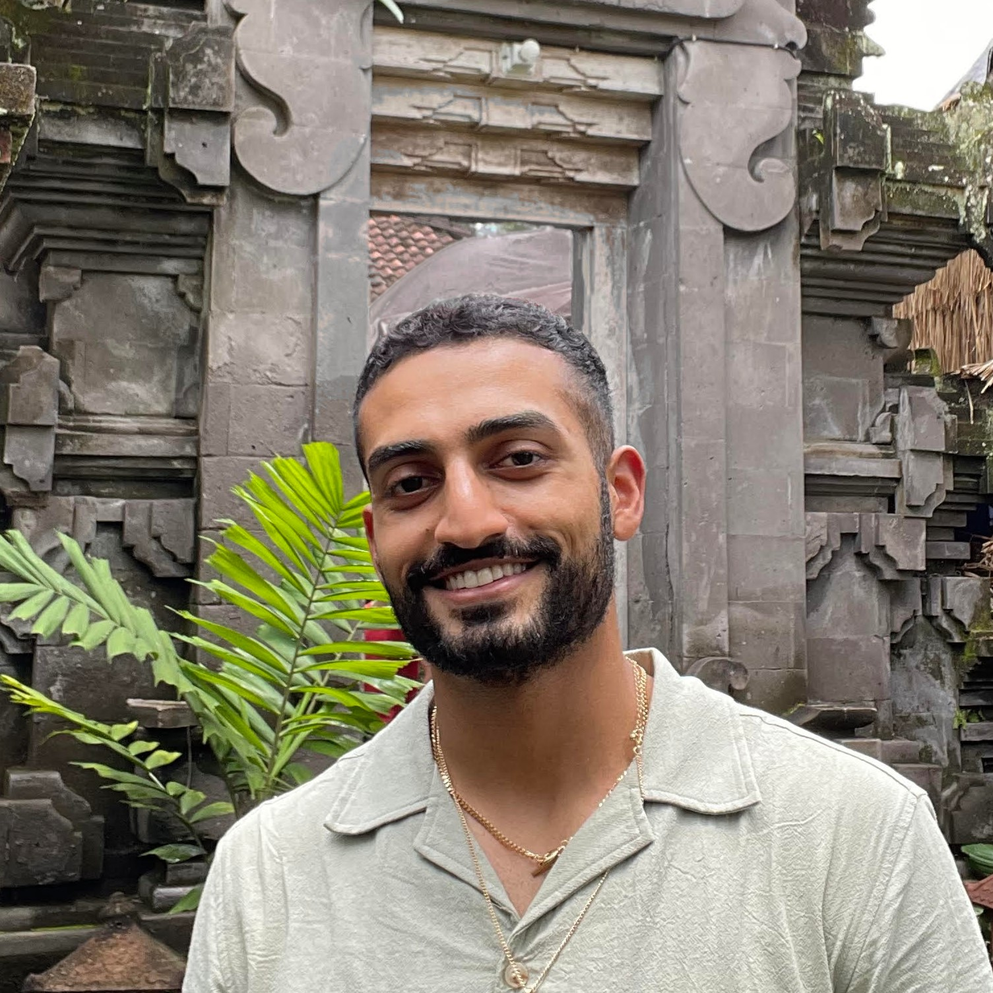
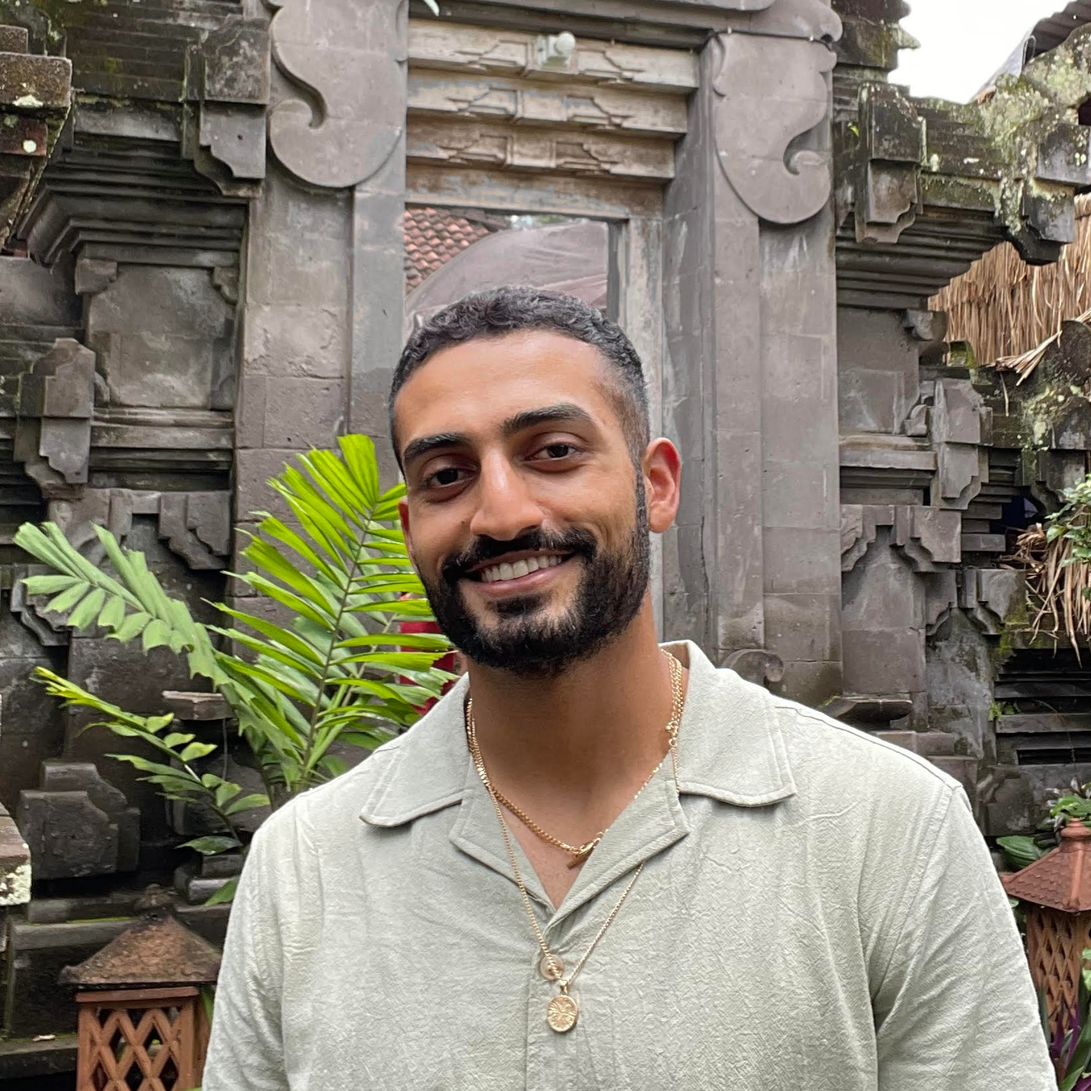
new landing page

diff --git a/app/page.tsx b/app/page.tsx
@@ -2,7 +2,6 @@
 
 import Image from "next/image";
 import { useEffect, useState } from "react";
-import Skills from "./components/Skills";
 import Link from "next/link";
 
 export default function HomePage() {
@@ -14,34 +13,31 @@ export default function HomePage() {
   }, []);
 
   return (
-    <main className="flex flex-col w-full items-center px-8">
-      <section className="flex flex-col md:flex-row justify-center md:gap-12 my-24 max-w-full w-full md:w-[48rem]">
-        <div className={`flex justify-center rounded-full overflow-hidden object-cover mx-auto min-h-[250px] min-w-[250px] border-4 border-green-300
+    <main className="flex flex-col w-full items-center justify-center px-4">
+      <section className="flex flex-col md:flex-row justify-center items-start md:gap-12 my-24 max-w-full w-full md:max-w-5xl">
+        <div className={`flex rounded-full overflow-hidden object-cover mx-auto min-h-[300px] min-w-[300px] border-4 border-green-300 overflow-hidden relative
           ${isVisible ? 'opacity-100' : 'opacity-0'} transition-opacity duration-500`}>
-          <Image
-            src="/me.JPG"
-            alt="Me"
-            width={300}
-            height={300}
+          <Image src="/me.JPG" alt="Syed Ali Asar" className="flex-shrink-0 absolute object-cover" 
+            width={500} height={500}
           />
+          {/* <div className="absolute inset-0 bg-green-300/75 opacity-0 hover:opacity-100 text-4xl font-bold text-center items-center justify-center flex transition-opacity duration-300">Syed Ali Asar</div> */}
         </div>
-        <div className={`flex flex-col mt-8 md:mt-0 justify-center text-center md:text-left
-          ${isVisible ? 'opacity-100' : 'opacity-0 -translate-x-20'} transition-opacity transition-transform duration-1000`}>
-          <div className="flex text-4xl md:text-6xl font-bold justify-center md:justify-start">{name}</div>
-          <div className="flex pt-6 italic justify-center md:justify-start ">
-            Here to streamline, scale, and succeed with thoughtful and high-quality software solutions.
-          </div>
-          <div className="flex pt-6 font-medium justify-center md:justify-start items-center">
-            <Link href={'/portfolio'} className="border-2 rounded-full border-green-300 px-4 py-2 text-green-300 hover:bg-green-300 hover:text-slate-800 transition-colors duration-300">
-              View Portfolio
-            </Link>
-            <Link href={'/contact'} className="ml-4 border-2 border-green-300 bg-green-300 rounded-full px-4 py-2 text-slate-800 hover:bg-transparent hover:text-green-300 transition-colors duration-300">
-              Contact
-            </Link>
+
+        <div className={`flex flex-col mt-8 md:mt-0 justify-center ${isVisible ? 'opacity-100' : 'opacity-0 -translate-x-20'} transition-opacity transition-transform duration-1000`}>
+          {/* <div className="flex text-4xl md:text-6xl font-bold justify-center md:justify-start">{name}</div> */}
+          <h1 className="text-5xl md:text-6xl font-bold">
+            Web developer for your <span className="text-green-500">business</span>
+          </h1>
+          <p className="mt-8 text-2xl">
+            If you're a business owner who needs a high-converting website or a startup founder building your MVP, I design and develop custom web experiences that don't just look great, but help you attract users, validate your idea, and grow.
+          </p>
+
+          <div className="flex flex-col md:flex-row gap-4 mt-12 justify-start w-max">
+            <Link href={'/devlabs'} className="btn-outline w-max">Work With Me</Link>
+            <Link href={'/portfolio'} className="btn w-max">View Portfolio</Link>
           </div>
         </div>
       </section>
-      <Skills />
     </main>
   );
 }

diff --git a/app/components/particles-bg.tsx b/app/components/particles-bg.tsx
@@ -1,7 +1,9 @@
+"use client";
+
 import * as THREE from 'three';
 import { useEffect, useRef } from 'react';
 
-export default function InteractiveParticles() {
+export default function ParticlesBackground() {
   const mountRef = useRef<HTMLDivElement>(null);
 
   useEffect(() => {
@@ -38,59 +40,24 @@ export default function InteractiveParticles() {
 
     camera.position.z = 5;
 
-    // Mouse interaction
-    const mouse = new THREE.Vector2();
-    const raycaster = new THREE.Raycaster();
-    raycaster.params.Points.threshold = 0.1; // Adjust the threshold for interaction
-
-    const onMouseMove = (event: MouseEvent) => {
-      mouse.x = (event.clientX / window.innerWidth) * 2 - 1;
-      mouse.y = -(event.clientY / window.innerHeight) * 2 + 1;
-    };
-
-    window.addEventListener('mousemove', onMouseMove);
-
     // Animation loop
     const animate = () => {
       requestAnimationFrame(animate);
 
-      // Update particles based on mouse position
-      raycaster.setFromCamera(mouse, camera);
-      const intersects = raycaster.intersectObject(particles);
-
-      if (intersects.length > 0) {
-        const intersect = intersects[0];
-        const positions = particlesGeometry.attributes.position.array as Float32Array;
-
-        for (let i = 0; i < particleCount; i++) {
-          const dx = positions[i * 3] - intersect.point.x;
-          const dy = positions[i * 3 + 1] - intersect.point.y;
-          const dz = positions[i * 3 + 2] - intersect.point.z;
-          const distance = Math.sqrt(dx * dx + dy * dy + dz * dz);
-
-          if (distance < 1) {
-            positions[i * 3] += dx * 0.01;
-            positions[i * 3 + 1] += dy * 0.01;
-            positions[i * 3 + 2] += dz * 0.01;
-          }
-        }
-
-        particlesGeometry.attributes.position.needsUpdate = true;
-      }
-
+      // Rotate particles for a dynamic effect
       particles.rotation.y += 0.001;
+
       renderer.render(scene, camera);
     };
     animate();
 
     // Cleanup on unmount
     return () => {
-      window.removeEventListener('mousemove', onMouseMove);
       if (mountRef.current) {
         mountRef.current.removeChild(renderer.domElement);
       }
     };
   }, []);
 
-  return <div ref={mountRef} className="absolute top-0 left-0 w-full h-full -z-10"></div>;
+  return <div ref={mountRef} className=" fixed top-0 left-0 w-full h-full -z-10"></div>;
 }

diff --git a/app/layout.tsx b/app/layout.tsx
@@ -1,30 +1,26 @@
 import type { Metadata } from "next";
-import { Montserrat } from "next/font/google";
+import { Inter } from "next/font/google";
 import "./globals.css";
-import Header from "./components/Header";
-import Footer from "./components/Footer";
+import Header from "./components/_header";
+import Footer from "./components/_footer";
 import "@fortawesome/fontawesome-svg-core/styles.css";
-import ThreeJSParticles from "./components/ThreeJSParticles";
+import ParticlesBackground from "./components/particles-bg";
 
-const inter = Montserrat({ subsets: ["latin"] });
+const inter = Inter({ subsets: ["latin"] });
 
 export const metadata: Metadata = {
-  title: "Syed Ali Asar",
-  description: "Syed Ali Asar's personal website",
+  title: "Syed Ali Asar | Asar Dev Labs",
+  description: "Web developer for your business. I design and develop custom web experiences that don't just look great, but help you attract users, validate your idea, and grow.",
 };
 
-export default function RootLayout({
-  children,
-}: Readonly<{
-  children: React.ReactNode;
-}>) {
+export default function RootLayout({ children }: Readonly<{ children: React.ReactNode }>) {
   return (
     <html lang="en">
       <body className={inter.className}>
         <main className="flex flex-col items-center min-h-[calc(100dvh)]">
           <Header />
           <div className="flex justify-center w-full flex-grow">
-            <ThreeJSParticles />
+            <ParticlesBackground />
             {children}
           </div>
           <Footer />

diff --git a/app/portfolio/page.tsx b/app/portfolio/page.tsx
@@ -43,14 +43,6 @@ export default function ProjectsPage() {
       tech: "Next.js, OpenAI, MongoDB, AWS, Typescript",
       link: "https://www.my-nimbus.com/",
     },
-    /* {
-      name: "Todo App",
-      desc: "Simple todo list app for creating, retrieving, updating, and deleting tasks.",
-      img: "/projects/todoapp.png",
-      tech: "Next.js, Express.js, Prisma, MySQL, Tailwind CSS",
-      //link: "https://todo-list-frontend-teal.vercel.app/",
-      github: "https://github.com/syedaliasar14/todo-list-frontend",
-    }, */
     {
       name: "Studio Art Portfolio Website",
       desc: "Architecture and studio art portfolio website",
@@ -58,15 +50,7 @@ export default function ProjectsPage() {
       tech: "Next.js, React, Typescript",
       link: "https://sokainaasar.com/",
       github: "https://github.com/syedaliasar14/sokaina-website",
-    },
-    /* {
-      name: "Monster Jobs",
-      desc: "Hackathon challenge - AI-powered job board for integrating monsters into the real world.",
-      img: "/projects/monsterjobs.png",
-      tech: "Next.js, OpenAI, Typescript",
-      link: "https://monster-jobs-chi.vercel.app/",
-      github: "https://github.com/syedaliasar14/monster-jobs",
-    }, */
+    }
   ]
 
   return (

diff --git a/app/components/_header.tsx b/app/components/_header.tsx
@@ -6,19 +6,14 @@ export default function Header() {
     <header className="flex justify-center w-full bg-slate-800 shadow ">
       <div className="flex flex-row w-full md:w-[48rem] items-center justify-center p-2">
         <Link href="/" className="text-xl px-3 scale-75 hover:scale-100 transition-transform duration-300">
-          <Image
-            className="rounded-full"
-            src="/avatar.jpg"
-            alt="Avatar"  
-            width={48}
-            height={48}
-          />
+          <Image className="rounded-full" src="/avatar.jpg" alt="Avatar" width={48} height={48} />
         </Link>
+
         <div>
-          <Link href="/portfolio" className="text-xl p-2 mx-2 rounded-lg hover:bg-slate-700 hover:text-green-300 transition-all duration-300">
+          <Link href="/portfolio" className="text-xl p-2 mx-2 hover:text-green-300 transition-all duration-300">
             Portfolio
           </Link>
-          <Link href="/contact" className="text-xl p-2 mx-2 rounded-lg hover:bg-slate-700 hover:text-green-300 transition-all duration-300">
+          <Link href="/contact" className="text-xl p-2 mx-2 hover:text-green-300 transition-all duration-300">
             Contact
           </Link>
         </div>

diff --git a/app/globals.css b/app/globals.css
@@ -11,8 +11,12 @@ body::selection {
 }
 
 @layer utilities {
-  .text-balance {
-    text-wrap: balance;
+  .btn-outline {
+    @apply border-2 rounded-full border-green-300 px-8 py-3 text-green-300 hover:bg-green-300 hover:text-slate-800 transition-colors duration-300 ease-in-out;
+  }
+
+  .btn {
+    @apply border-2 border-green-300 bg-green-300 rounded-full px-8 py-3 text-slate-800 hover:bg-transparent hover:text-green-300 transition-colors duration-300 ease-in-out;
   }
 
   .skill-hover {

diff --git a/app/devlabs/business-websites/page.tsx b/app/devlabs/business-websites/page.tsx
@@ -1,0 +1,5 @@
+export default function BusinessWebsitesPage() {
+  return (
+    <div></div>
+  )
+}

diff --git a/app/devlabs/startup-mvp/page.tsx b/app/devlabs/startup-mvp/page.tsx
@@ -1,0 +1,5 @@
+export default function StartupMVPPage() {
+  return (
+    <div></div>
+  )
+}

diff --git a/app/devlabs/page.tsx b/app/devlabs/page.tsx
@@ -1,0 +1,5 @@
+export default function DevLabsPage() {
+  return (
+    <div></div>
+  )
+}
